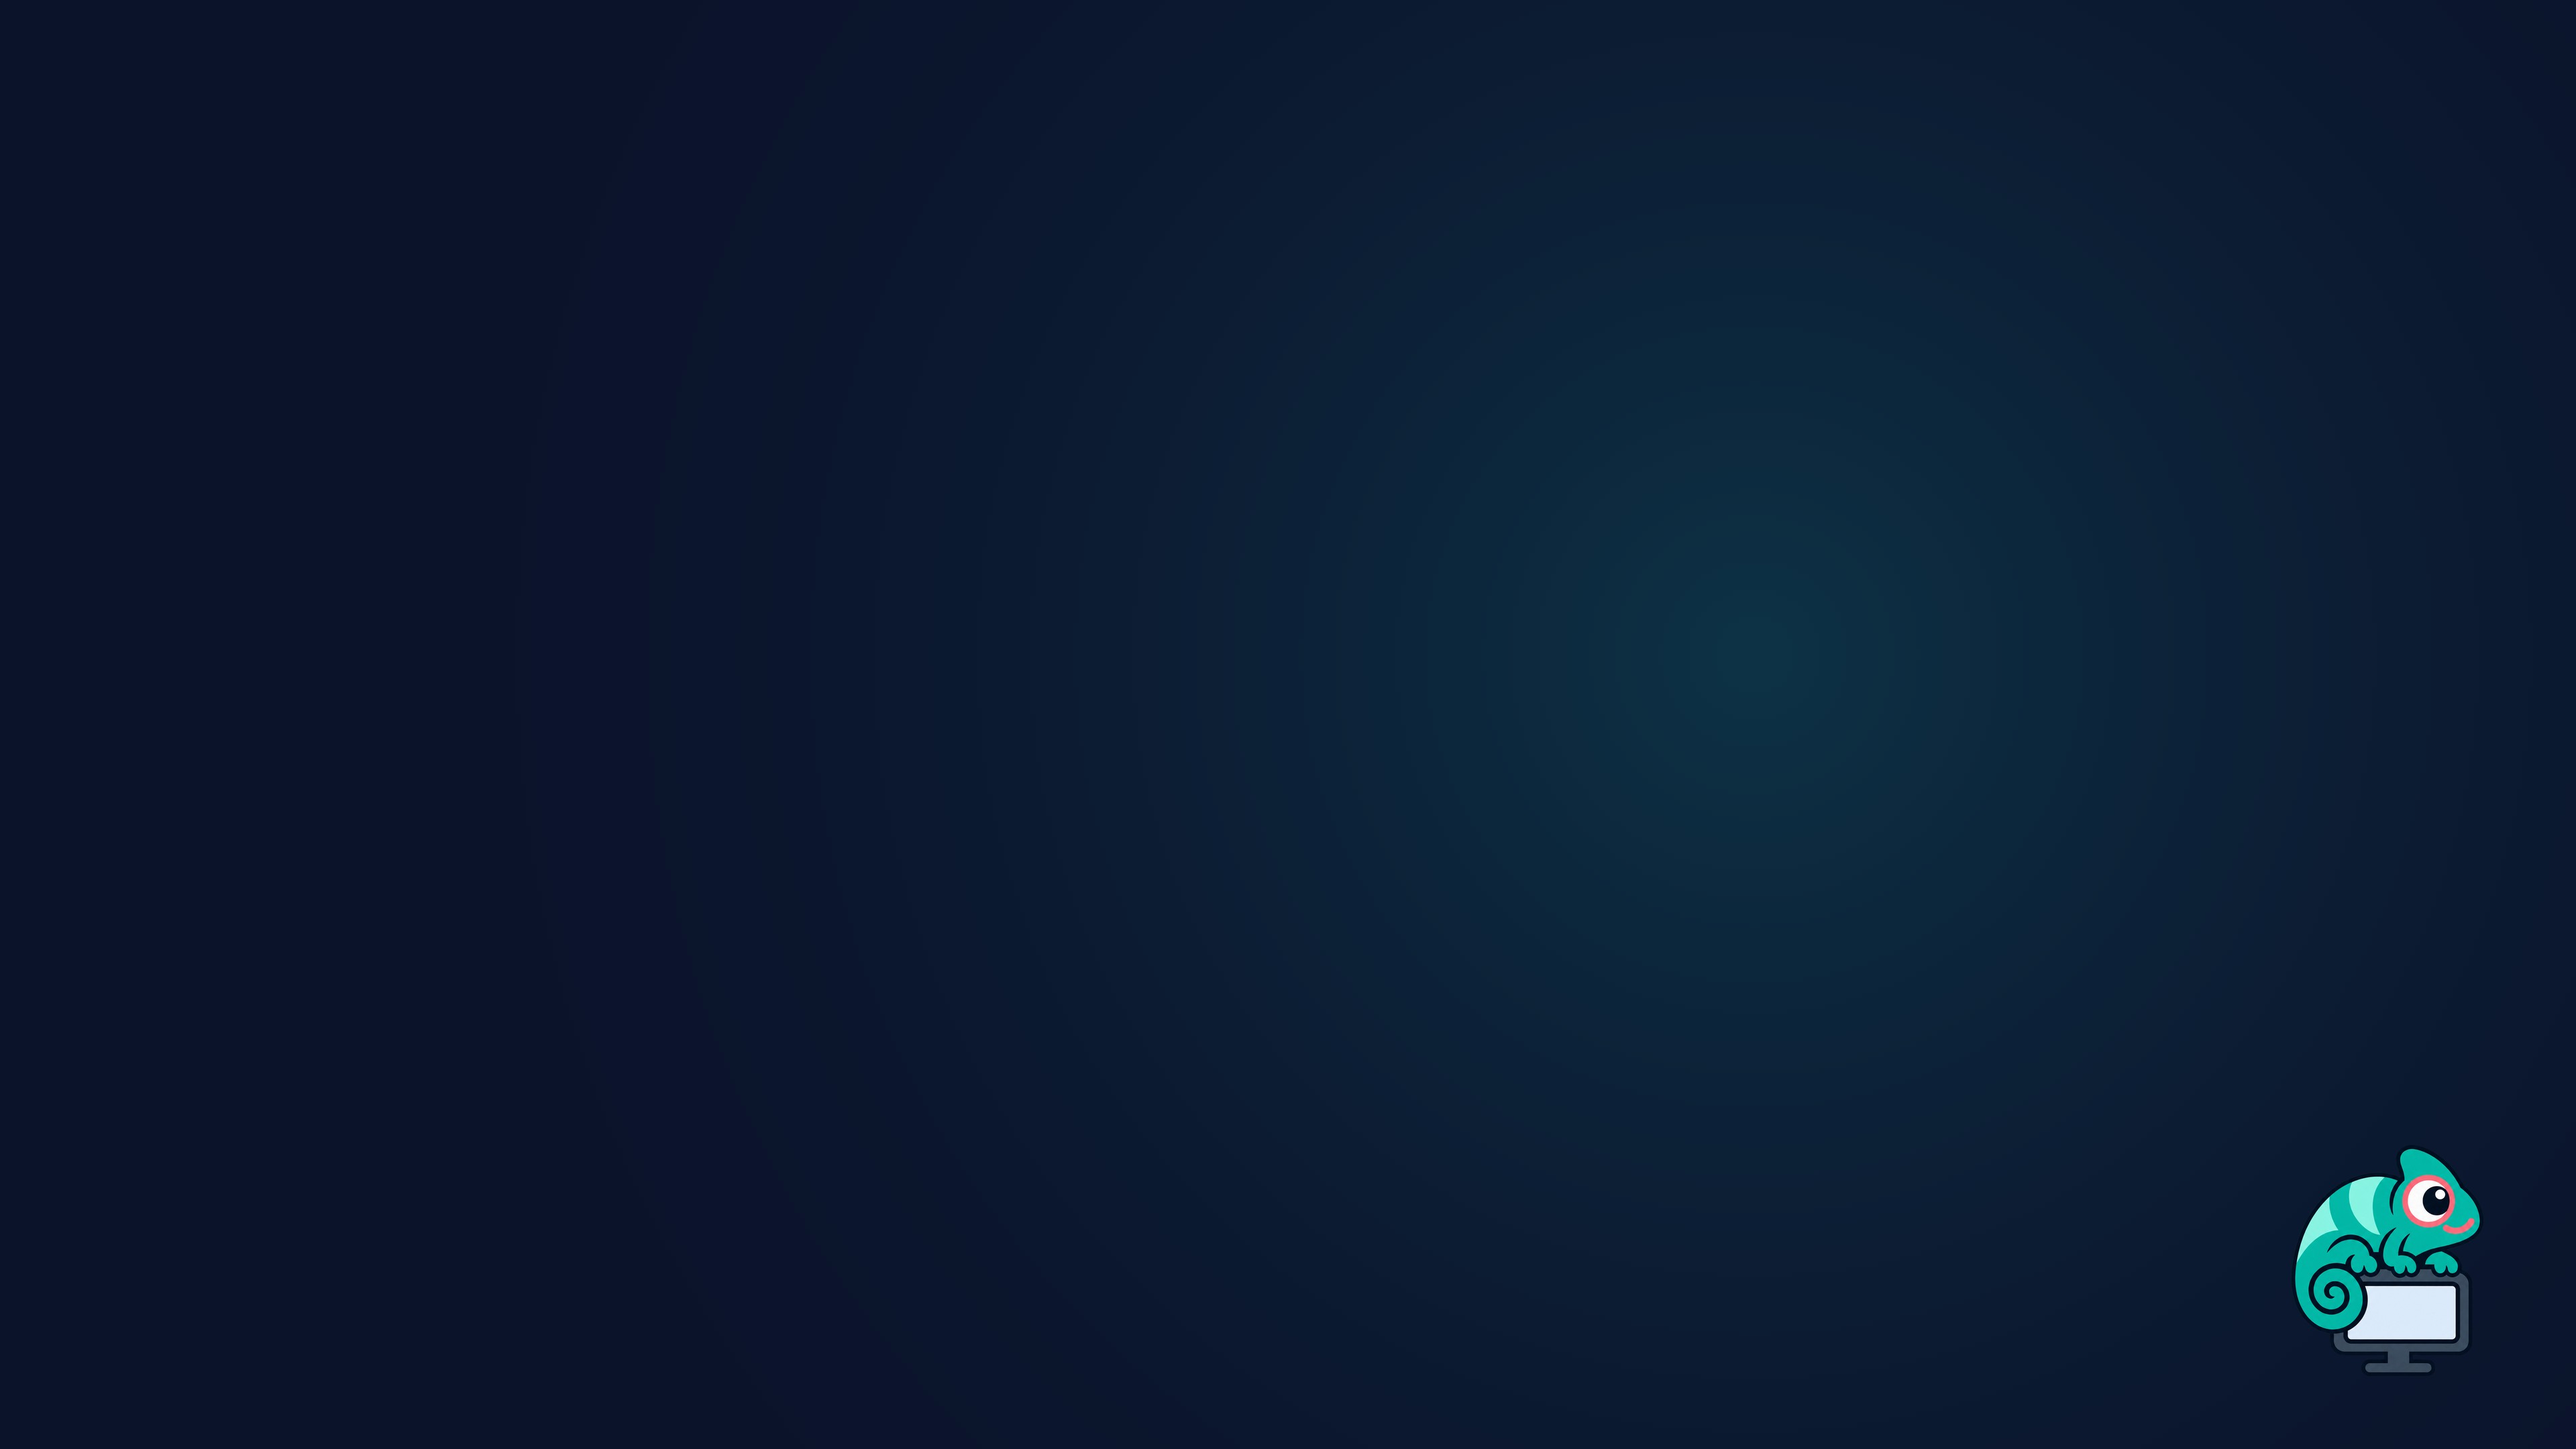
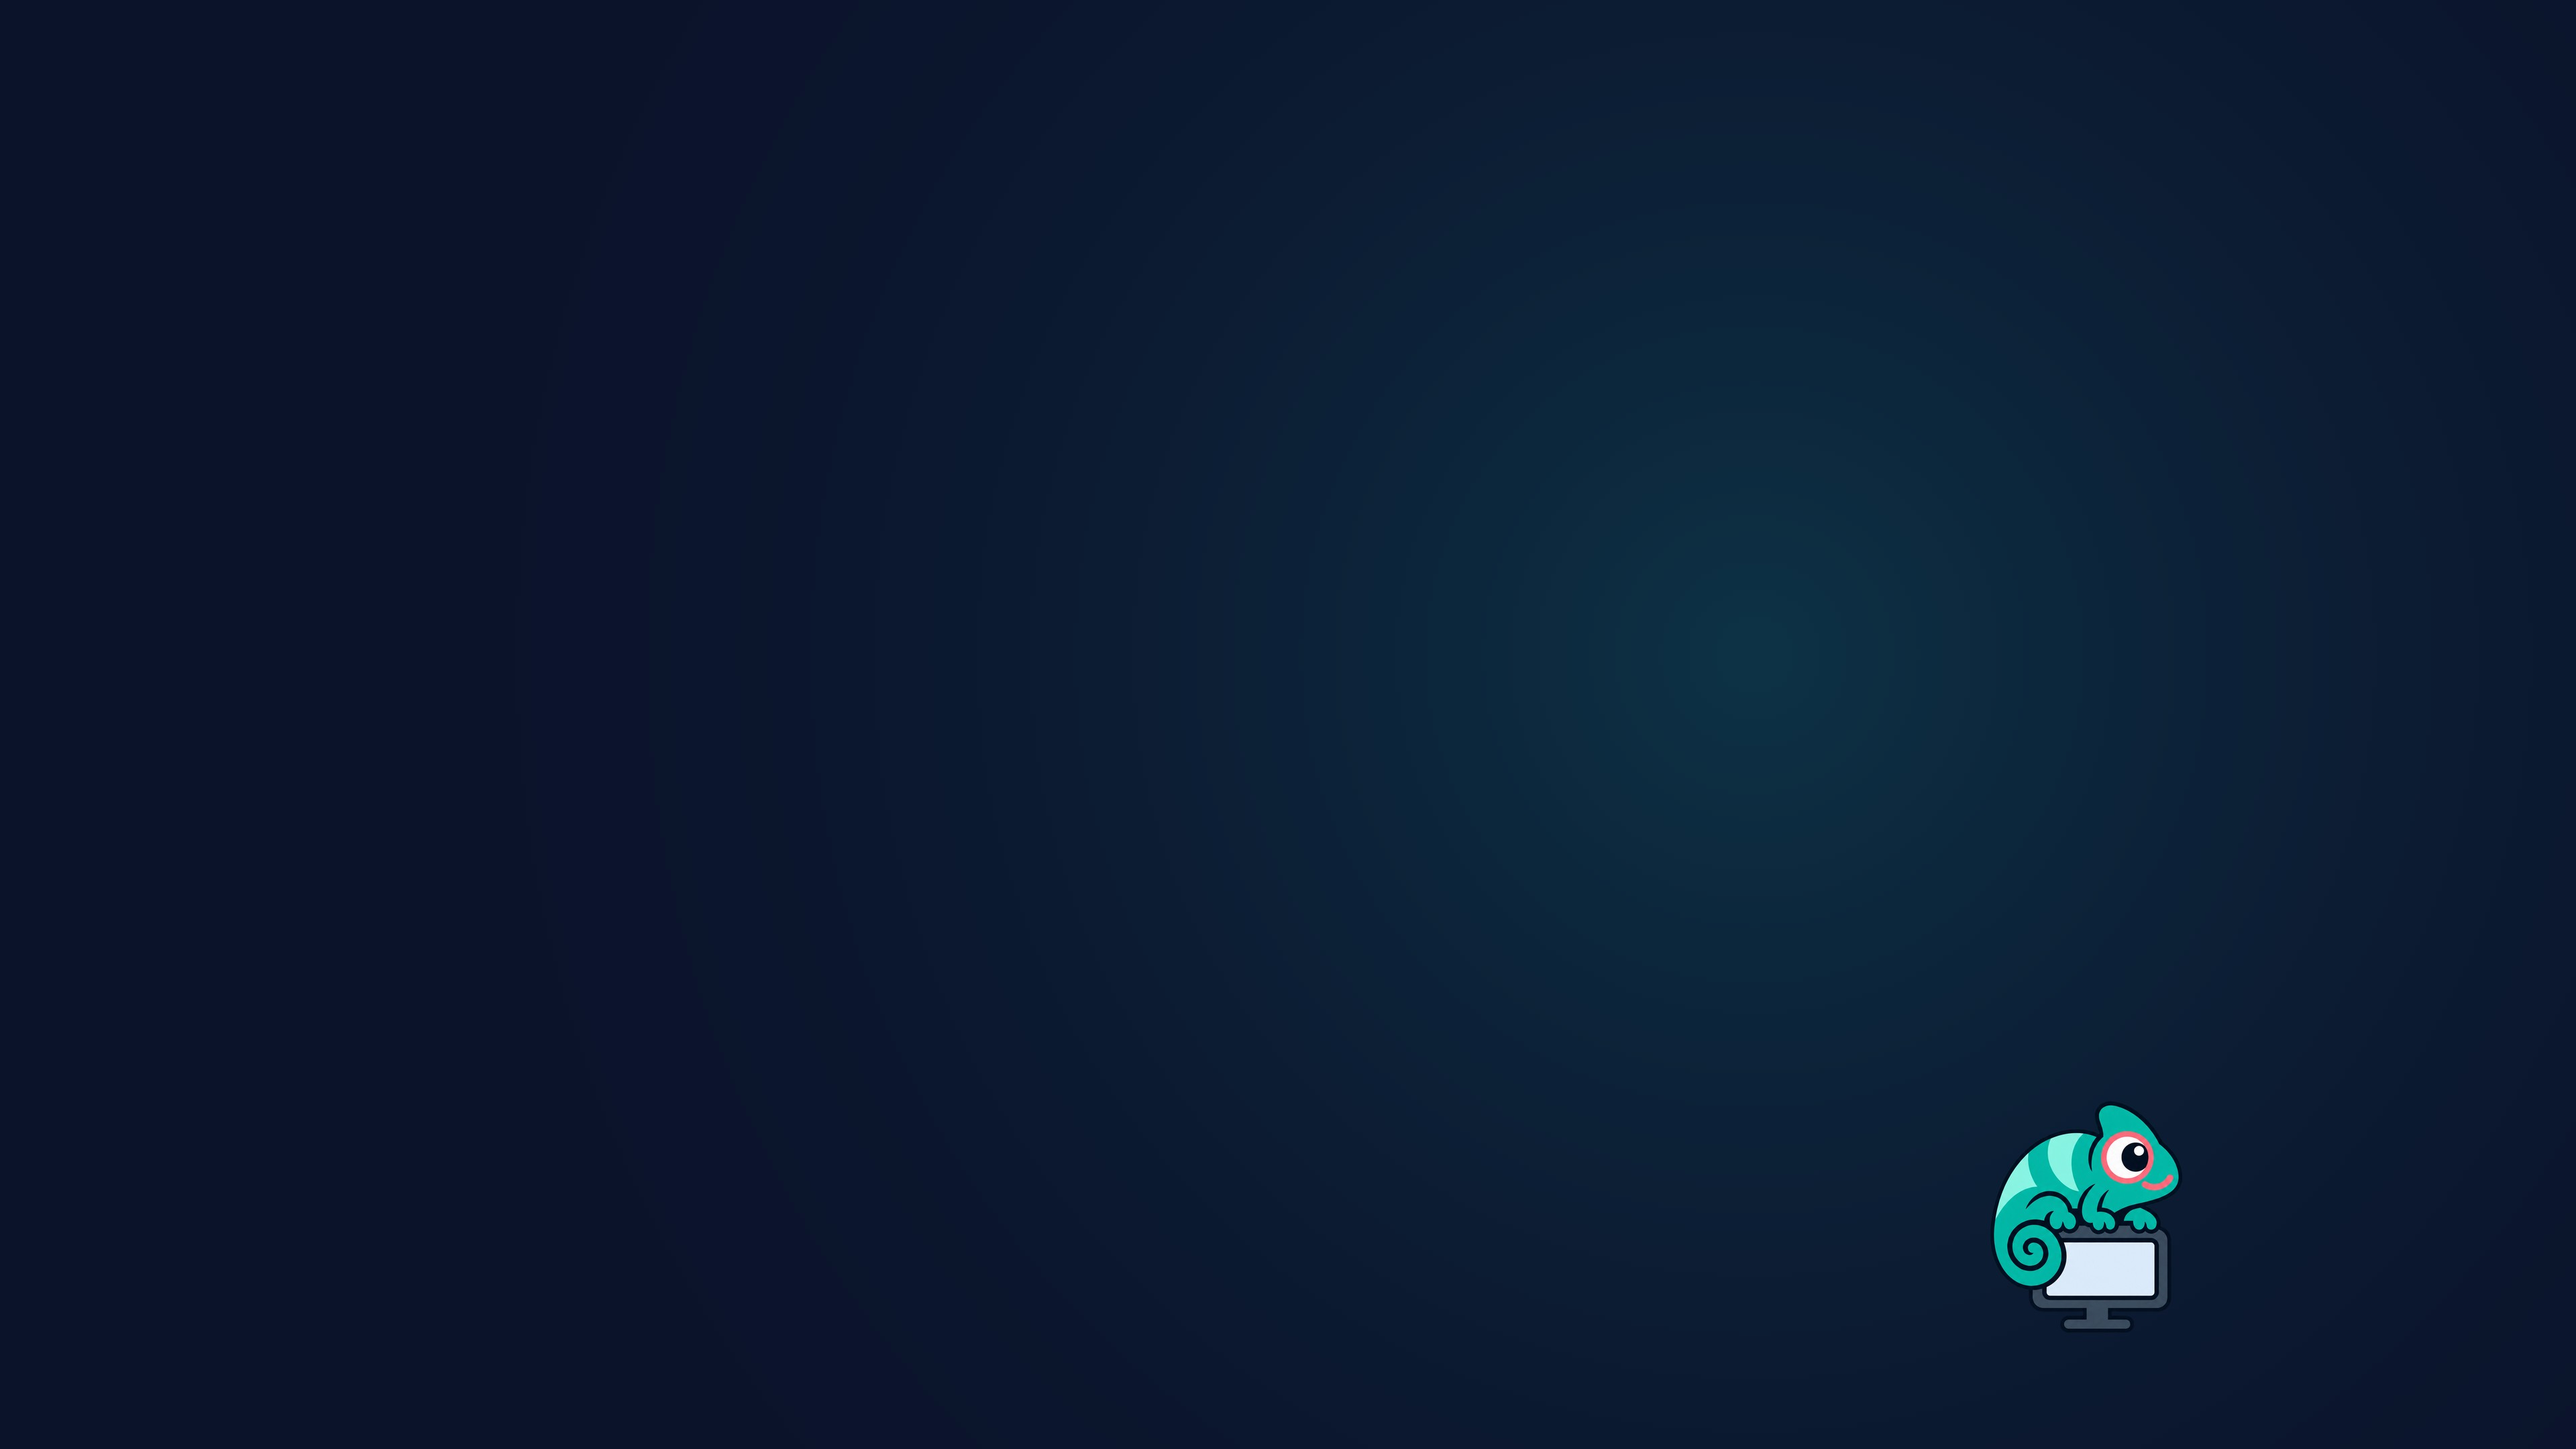
Wallpaper mascot inside the 4:3 safe area; stale gpg-agent no longer blocks XFCE
xfdesktop zooms the 16:9 wallpaper to fill the screen; on the Tab S10 FE
(16:10) the mascot at the right edge was cut off. It now sits within what a
4:3 screen still shows. The app's wallpaper file is refreshed on updates.

The desktop stayed black on the tablet: xfce4-session starts its ssh agent as
'gpg-agent --sh --daemon' and waits in its main thread; a gpg-agent left from
an earlier session (reparented to init, so stopping the server missed it)
blocked that, and xfwm4 waited for the session manager. The session script
kills a gpg-agent that does not answer gpg-connect-agent within 3 s.

Changed region(s): [[0.875, 0.7755, 0.9688, 0.9616], [0.75, 0.7444, 0.8438, 0.9306]]

diff --git a/app/android/app/src/main/kotlin/com/orailnoor/droiddesk/runtime/LinuxRuntime.kt b/app/android/app/src/main/kotlin/com/orailnoor/droiddesk/runtime/LinuxRuntime.kt
@@ -5110,6 +5110,17 @@ class LinuxRuntime(private val context: Context) {
             # on the network play or record past the IP ACL.
             echo "DIAG: PulseAudio sinks: ${'$'}(timeout 2 pactl list short sinks 2>/dev/null | cut -f2 | tr '\n' ' ')"
 
+            # xfce4-session starts its ssh agent as "gpg-agent --sh --daemon" and waits for it
+            # in its main thread. A gpg-agent left from an earlier session (reparented to init,
+            # so stopping the server missed it) that stopped answering blocked that call, xfwm4
+            # then waited for the session manager and the desktop stayed black (Tab S10 FE,
+            # 2026-11-12). Keep an agent that answers, kill one that does not.
+            if pgrep -x gpg-agent >/dev/null 2>&1 &&
+                ! timeout 3 gpg-connect-agent /bye >/dev/null 2>&1; then
+                echo "DIAG: killing a gpg-agent that does not answer"
+                pkill -9 -x gpg-agent >/dev/null 2>&1 || true
+            fi
+
             echo "DIAG: Launching $desktopCommand natively on DISPLAY=:0 ..."
             exec $desktopCommand
         """.trimIndent()

diff --git a/app/android/app/src/main/kotlin/com/orailnoor/droiddesk/runtime/XfceMobileProfile.kt b/app/android/app/src/main/kotlin/com/orailnoor/droiddesk/runtime/XfceMobileProfile.kt
@@ -17,7 +17,17 @@ object XfceMobileProfile {
         wallpaperPathInSession: String = wallpaperFile.absolutePath,
     ): Boolean {
         val marker = File(homeDir, PROFILE_MARKER)
-        if (marker.exists()) return true
+        if (marker.exists()) {
+            // The app's own wallpaper file follows app updates (a user's own wallpaper lives
+            // elsewhere and is untouched): the mascot moved inward in 2.0 (16:10 tablets cut it).
+            runCatching {
+                val shipped = context.assets.open(WALLPAPER_ASSET).use { it.readBytes() }
+                if (wallpaperFile.isFile && !wallpaperFile.readBytes().contentEquals(shipped)) {
+                    wallpaperFile.writeBytes(shipped)
+                }
+            }
+            return true
+        }
 
         return try {
             wallpaperFile.parentFile?.mkdirs()

diff --git a/tools/brand/make-icons.py b/tools/brand/make-icons.py
@@ -103,8 +103,12 @@ def wallpaper(mascot, width=3840, height=2160):
             pixels[x, y] = (round(11 + (15 - 11) * t), round(19 + (76 - 19) * t), round(43 + (92 - 43) * t))
     image = glow.resize((width, height), Image.BICUBIC).convert("RGBA")
     corner = on_canvas(mascot, round(height * 0.16), 1.0)
-    margin = round(height * 0.05)
-    image.alpha_composite(corner, (width - corner.width - margin, height - corner.height - margin))
+    # xfdesktop zooms the image to fill the screen and crops the rest: on a 16:10 tablet the
+    # mascot at the right edge was cut off. Keep it inside what a 4:3 screen still shows
+    # (12.5 % to 87.5 % of the width), lower right.
+    right = round(width * 0.855)
+    bottom = round(height * 0.92)
+    image.alpha_composite(corner, (right - corner.width, bottom - corner.height))
     return image.convert("RGB")
 
 
